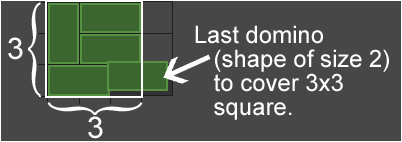
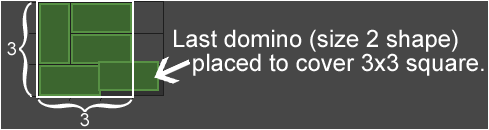
adjusted instruction screen to fit both Chrome and Firefox

Changed region(s): [[0.0, 0.0, 1.0, 0.9846], [0.5075, 0.7077, 0.7463, 0.8615]]

diff --git a/scripts/menu.js b/scripts/menu.js
@@ -65,25 +65,25 @@ function renderInstructionsOverlay(){
 
   var imgWidth = img_3x3.width*scale;
   var imgHeight = img_3x3.height*scale;
-  var left = w*scale-imgWidth
-	gfx.drawImage(img_3x3, x+left, y+6*lineHeight, imgWidth, imgHeight);
+  var left = (x+leftMargin);
+	gfx.drawImage(img_3x3, left, y+6*lineHeight, imgWidth, imgHeight);
 
 	y += img_3x3.height;
 
-	gfx.fillRect(x+leftMargin, y+9*lineHeight-(fontSize*1.6),w-leftMargin*2, 1);
-	gfx.fillRect(x+leftMargin, y+9*lineHeight+(fontSize*0.6),w-leftMargin*2, 1);
-	drawText("GOAL: Merge ALL BOLTED shapes on board.", x+w/2, y+9*lineHeight, (fontSize*1.3)+"px Arial bold italic", true);
+	gfx.fillRect(x+leftMargin, y+8*lineHeight-(fontSize*1.6),w-leftMargin*2, 1);
+	gfx.fillRect(x+leftMargin, y+8*lineHeight+(fontSize*0.6),w-leftMargin*2, 1);
+	drawText("GOAL: Merge ALL BOLTED shapes on board.", x+w/2, y+8*lineHeight, (fontSize*1.3)+"px Arial bold italic", true);
 
-	drawText("Controls",                                             		 x+w/2,        y+12*lineHeight, (fontSize*1.7) + "px Arial Bold", true);
-	drawText("Mouse:",                                                   x+leftMargin, y+13*lineHeight, (fontSize*1.3) + "px Arial Bold");
-	drawText("   Left Click & Drag to lift and move pieces.",             x+leftMargin, y+14*lineHeight, fontSize+"px Arial");
-	drawText("   Right Click (or spacebar) to rotate a lifted piece.",      x+leftMargin, y+15*lineHeight, fontSize+"px Arial");
+	drawText("Controls",                                             		 x+w/2,        y+11*lineHeight, (fontSize*1.7) + "px Arial Bold", true);
+	drawText("Mouse:",                                                   x+leftMargin, y+12*lineHeight, (fontSize*1.3) + "px Arial Bold");
+	drawText("   Left Click & Drag to lift and move pieces.",            x+leftMargin, y+13*lineHeight, fontSize+"px Arial");
+	drawText("   Right Click (or spacebar) to rotate a lifted piece.",   x+leftMargin, y+14*lineHeight, fontSize+"px Arial");
 
-	drawText("Touch:",                                                   x+leftMargin, y+17*lineHeight, (fontSize*1.3) + "px Arial Bold");
-	drawText("   Tap & Drag to pick up and move pieces",          			     x+leftMargin, y+18*lineHeight, fontSize+"px Arial");
-	drawText("   Tap with a second finger to rotate picked up piece",       x+leftMargin, y+19*lineHeight, fontSize+"px Arial");
+	drawText("Touch:",                                                   x+leftMargin, y+16*lineHeight, (fontSize*1.3) + "px Arial Bold");
+	drawText("   Tap & Drag to pick up and move pieces",          			 x+leftMargin, y+17*lineHeight, fontSize+"px Arial");
+	drawText("   Tap with a second finger to rotate picked up piece",    x+leftMargin, y+18*lineHeight, fontSize+"px Arial");
 
-	drawText("Click or tap to close",                                    x+w/2, y+21*lineHeight, (0.8*fontSize)+"px Arial", true);
+	drawText("Click or tap to close",                                    x+w/2, y+20*lineHeight, (0.8*fontSize)+"px Arial", true);
 }
 
 function renderGameLostOverlay(){

diff --git a/scripts/generation.js b/scripts/generation.js
@@ -14,14 +14,6 @@ var CELL_VISITED = -2;
 var CELL_NONEXISTANT_ID = -3;
 
 
-
-
-
-
-
-
-
-
 //=======================================================================================
 function spawnPoly() {
 //=======================================================================================
